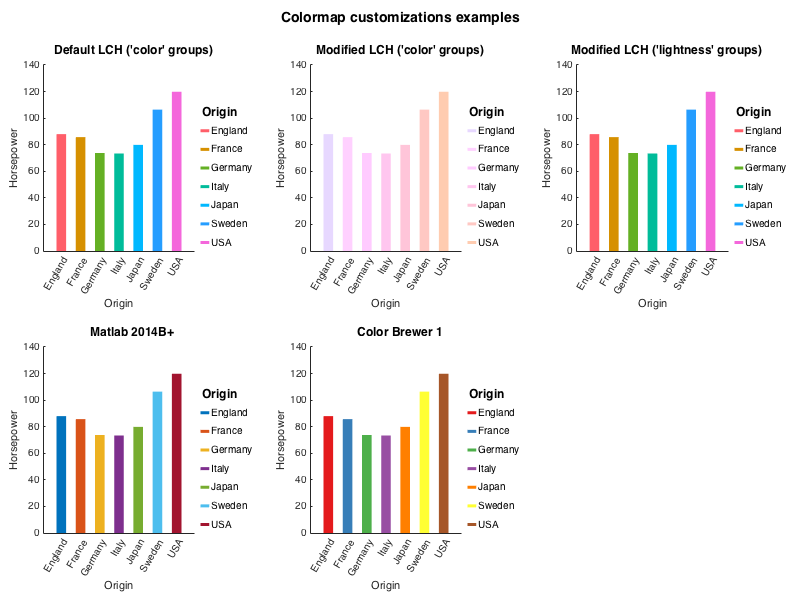
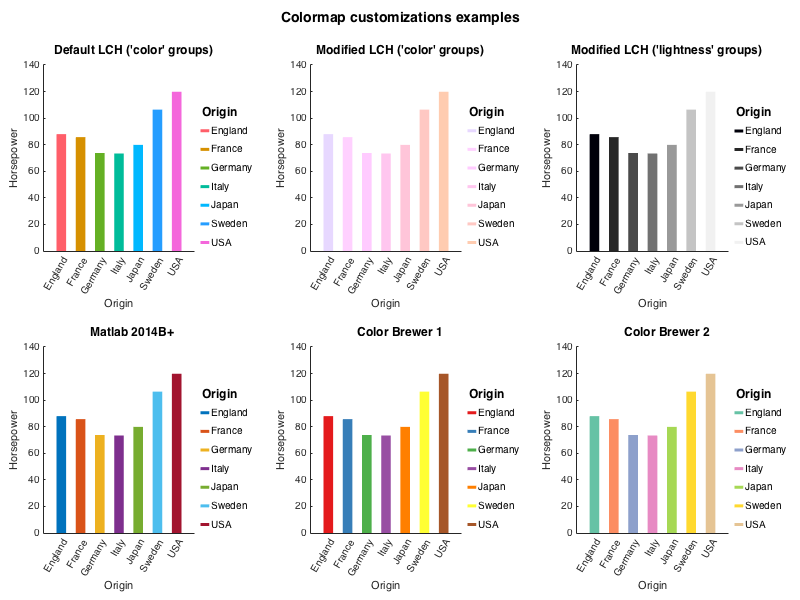
Corrected examples. Added safety check in stat_summary(). Improved update() behavior

diff --git a/html/examples.html b/html/examples.html
@@ -6,7 +6,7 @@
    <!--
 This HTML was auto-generated from MATLAB code.
 To make changes, update the MATLAB code and republish this document.
-      --><title>gramm examples</title><meta name="generator" content="MATLAB 8.5"><link rel="schema.DC" href="http://purl.org/dc/elements/1.1/"><meta name="DC.date" content="2016-05-03"><meta name="DC.source" content="examples.m"><style type="text/css">
+      --><title>gramm examples</title><meta name="generator" content="MATLAB 8.5"><link rel="schema.DC" href="http://purl.org/dc/elements/1.1/"><meta name="DC.date" content="2016-05-10"><meta name="DC.source" content="examples.m"><style type="text/css">
 html,body,div,span,applet,object,iframe,h1,h2,h3,h4,h5,h6,p,blockquote,pre,a,abbr,acronym,address,big,cite,code,del,dfn,em,font,img,ins,kbd,q,s,samp,small,strike,strong,sub,sup,tt,var,b,u,i,center,dl,dt,dd,ol,ul,li,fieldset,form,label,legend,table,caption,tbody,tfoot,thead,tr,th,td{margin:0;padding:0;border:0;outline:0;font-size:100%;vertical-align:baseline;background:transparent}body{line-height:1}ol,ul{list-style:none}blockquote,q{quotes:none}blockquote:before,blockquote:after,q:before,q:after{content:'';content:none}:focus{outine:0}ins{text-decoration:none}del{text-decoration:line-through}table{border-collapse:collapse;border-spacing:0}
 
 html { min-height:100%; margin-bottom:1px; }
@@ -75,7 +75,7 @@ table td { padding:7px 5px; text-align:left; vertical-align:top; border:1px soli
 </pre><p>Set figure title</p><pre class="codeinput">g.set_title(<span class="string">'Fuel economy of new cars between 1970 and 1982'</span>);
 </pre><p>Do the actual drawing</p><pre class="codeinput">figure(<span class="string">'Position'</span>,[100 100 800 400]);
 g.draw();
-</pre><img vspace="5" hspace="5" src="examples_01.png" alt=""> <h2>Grouping options in gramm<a name="9"></a></h2><p>With gramm there are a lot ways to map groups to visual properties of plotted data, or even subplots. Providing grouping variables to change visual properties is done in the constructor call <tt>gramm()</tt>. Grouping variables that determine subplotting are provided by calls to the <tt>facet_grid()</tt> or <tt>facet_wrap()</tt> methods. Not that <b>all the mappings presented below can be combined</b>, i.e. it's possible to previde different variables to each of the options.</p><p>In order to plot multiple, diferent gramm objects in the same figure, an array of gramm objects is created, and the <tt>draw()</tt> function called at the end on the whole array</p><pre class="codeinput">clear <span class="string">g</span>
+</pre><img vspace="5" hspace="5" src="examples_01.png" alt=""> <h2>Grouping options in gramm<a name="9"></a></h2><p>With gramm there are a lot ways to map groups to visual properties of plotted data, or even subplots. Providing grouping variables to change visual properties is done in the constructor call <tt>gramm()</tt>. Grouping variables that determine subplotting are provided by calls to the <tt>facet_grid()</tt> or <tt>facet_wrap()</tt> methods. Note that <b>all the mappings presented below can be combined</b>, i.e. it's possible to previde different variables to each of the options.</p><p>In order to plot multiple, diferent gramm objects in the same figure, an array of gramm objects is created, and the <tt>draw()</tt> function called at the end on the whole array</p><pre class="codeinput">clear <span class="string">g</span>
 g(1,1)=gramm(<span class="string">'x'</span>,cars.Horsepower,<span class="string">'y'</span>,cars.MPG,<span class="string">'subset'</span>,cars.Cylinders~=3 &amp; cars.Cylinders~=5);
 g(1,1).geom_point();
 g(1,1).set_names(<span class="string">'x'</span>,<span class="string">'Horsepower'</span>,<span class="string">'y'</span>,<span class="string">'MPG'</span>);
@@ -563,26 +563,33 @@ figure(<span class="string">'Position'</span>,[100 100 800 1000]);
 g.draw();
 </pre><img vspace="5" hspace="5" src="examples_14.png" alt=""> <h2>Using different groups for different stat_ and geom_ methods by superimposing gramm plots<a name="22"></a></h2><p>By using the method update() after a first draw() call of a gramm object, it is possible to add or remove grouping variables. Here in a first gramm plot we make a glm fit of cars Acceleration as a function of Horsepower, across all countries and number of cylinders, and change the color options so that the fit appears in grey</p><pre class="codeinput">clear <span class="string">g10</span>
 figure(<span class="string">'Position'</span>,[100 100 600 450]);
-g10(1,1)=gramm(<span class="string">'x'</span>,cars.Horsepower,<span class="string">'y'</span>,cars.Acceleration,<span class="string">'subset'</span>,cars.Cylinders~=3 &amp; cars.Cylinders~=5);
-g10(1,1).set_names(<span class="string">'color'</span>,<span class="string">'# Cylinders'</span>,<span class="string">'x'</span>,<span class="string">'Horsepower'</span>,<span class="string">'y'</span>,<span class="string">'Acceleration'</span>,<span class="string">'Column'</span>,<span class="string">'Origin'</span>);
-g10(1,1).set_color_options(<span class="string">'chroma'</span>,0,<span class="string">'lightness'</span>,30);
-g10(1,1).stat_glm(<span class="string">'geom'</span>,<span class="string">'area'</span>,<span class="string">'disp_fit'</span>,false);
-g10.draw();
+g10=gramm(<span class="string">'x'</span>,cars.Horsepower,<span class="string">'y'</span>,cars.Acceleration,<span class="string">'subset'</span>,cars.Cylinders~=3 &amp; cars.Cylinders~=5);
+g10.set_names(<span class="string">'color'</span>,<span class="string">'# Cylinders'</span>,<span class="string">'x'</span>,<span class="string">'Horsepower'</span>,<span class="string">'y'</span>,<span class="string">'Acceleration'</span>,<span class="string">'Column'</span>,<span class="string">'Origin'</span>);
+g10.set_color_options(<span class="string">'chroma'</span>,0,<span class="string">'lightness'</span>,30);
+g10.stat_glm(<span class="string">'geom'</span>,<span class="string">'area'</span>,<span class="string">'disp_fit'</span>,false);
+g10.draw()
 snapnow;
-</pre><img vspace="5" hspace="5" src="examples_15.png" alt=""> <p>After the first draw() call, we call the update() method by specifying a new grouping variable determining colors. We also change the facet_grid() options, which will duplicate the fit made earlier across all new facets. Last, color options are reinitialized to default values</p><pre class="codeinput">g10(1,1).update(<span class="string">'color'</span>,cars.Cylinders);
-g10(1,1).facet_grid([],cars.Origin_Region);
-g10(1,1).set_color_options();
-g10(1,1).geom_point();
+</pre><pre class="codeoutput">
+ans = 
 
+  gramm with properties:
 
+    facet_axes_handles: [1x1 Axes]
+               results: [1x1 struct]
+
+</pre><img vspace="5" hspace="5" src="examples_15.png" alt=""> <p>After the first draw() call (optional), we call the update() method by specifying a new grouping variable determining colors. We also change the facet_grid() options, which will duplicate the fit made earlier across all new facets. Last, color options are reinitialized to default values</p><pre class="codeinput">g10.update(<span class="string">'color'</span>,cars.Cylinders);
+g10.facet_grid([],cars.Origin_Region);
+g10.set_color_options();
+g10.geom_point();
 g10.draw();
 </pre><img vspace="5" hspace="5" src="examples_16.png" alt=""> <h2>Customizing color maps with set_color_options()<a name="24"></a></h2><p>With the method set_color_options(), automatic color generation for color and lightness groups can be tweaked</p><pre class="codeinput"><span class="comment">%Default: LCH-based colormap with hue variation</span>
 clear <span class="string">g</span>
 g(1,1)=gramm(<span class="string">'x'</span>,cars.Origin,<span class="string">'y'</span>,cars.Horsepower,<span class="string">'color'</span>,cars.Origin);
 g(1,2)=copy(g(1));
-g(1,3)=copy(g(1));
+g(1,3)=gramm(<span class="string">'x'</span>,cars.Origin,<span class="string">'y'</span>,cars.Horsepower,<span class="string">'lightness'</span>,cars.Origin);
 g(2,1)=copy(g(1));
 g(2,2)=copy(g(1));
+g(2,3)=copy(g(1));
 
 
 g(1,1).stat_summary(<span class="string">'geom'</span>,{<span class="string">'bar'</span>},<span class="string">'dodge'</span>,0);
@@ -798,7 +805,7 @@ g.draw();
 % Providing grouping variables to change visual properties is done in the
 % constructor call |gramm()|. Grouping variables that determine subplotting
 % are provided by calls to the |facet_grid()| or |facet_wrap()| methods.
-% Not that *all the mappings presented below can be combined*, i.e. it's
+% Note that *all the mappings presented below can be combined*, i.e. it's
 % possible to previde different variables to each of the options.
 %
 % In order to plot multiple, diferent gramm objects in the same figure, an array of gramm objects
@@ -1408,26 +1415,25 @@ g.draw();
 
 clear g10
 figure('Position',[100 100 600 450]);
-g10(1,1)=gramm('x',cars.Horsepower,'y',cars.Acceleration,'subset',cars.Cylinders~=3 & cars.Cylinders~=5);
-g10(1,1).set_names('color','# Cylinders','x','Horsepower','y','Acceleration','Column','Origin');
-g10(1,1).set_color_options('chroma',0,'lightness',30);
-g10(1,1).stat_glm('geom','area','disp_fit',false);
-g10.draw();
+g10=gramm('x',cars.Horsepower,'y',cars.Acceleration,'subset',cars.Cylinders~=3 & cars.Cylinders~=5);
+g10.set_names('color','# Cylinders','x','Horsepower','y','Acceleration','Column','Origin');
+g10.set_color_options('chroma',0,'lightness',30);
+g10.stat_glm('geom','area','disp_fit',false);
+g10.draw()
 snapnow;
 
 %%
-% After the first draw() call, we call the update() method by specifying a
+% After the first draw() call (optional), we call the update() method by specifying a
 % new grouping variable determining colors. We also change the facet_grid()
 % options, which will duplicate the fit made earlier across all new facets.
 % Last, color options are reinitialized to default values
 
-g10(1,1).update('color',cars.Cylinders);
-g10(1,1).facet_grid([],cars.Origin_Region);
-g10(1,1).set_color_options();
-g10(1,1).geom_point();
-
-
+g10.update('color',cars.Cylinders);
+g10.facet_grid([],cars.Origin_Region);
+g10.set_color_options();
+g10.geom_point();
 g10.draw();
+
 
 %% Customizing color maps with set_color_options()
 % With the method set_color_options(), automatic color generation for
@@ -1437,9 +1443,10 @@ g10.draw();
 clear g
 g(1,1)=gramm('x',cars.Origin,'y',cars.Horsepower,'color',cars.Origin);
 g(1,2)=copy(g(1));
-g(1,3)=copy(g(1));
+g(1,3)=gramm('x',cars.Origin,'y',cars.Horsepower,'lightness',cars.Origin);
 g(2,1)=copy(g(1));
 g(2,2)=copy(g(1));
+g(2,3)=copy(g(1));
 
 
 g(1,1).stat_summary('geom',{'bar'},'dodge',0);

diff --git a/@gramm/stat_summary.m b/@gramm/stat_summary.m
@@ -147,6 +147,11 @@ if iscell(draw_data.x) || iscell(draw_data.y) %If input was provided as cell/mat
         x=padded_cell2mat(draw_data.x);
         y=padded_cell2mat(draw_data.y);
         uni_x=nanmean(x);
+        %Add a check for X alignment
+        x_diff=max(x)-min(x);
+        if any(x_diff(1:end-1)>diff(uni_x)/10) %More than a tenth of delta x variation
+            warning(['some repeated X values are misaligned (max ' num2str(max(x_diff)) '), use ''interp_in'' in stat_summary() or live with the consequences'])
+        end
     end
     
     if params.bin_in>0

diff --git a/@gramm/update.m b/@gramm/update.m
@@ -17,8 +17,8 @@ end
 new_aes=parse_aes(varargin{:});
 
 %Do we have new x values?
-if ~isempty(new_aes.x) && numel(new_aes.x)~=numel(obj.aes.x)
-    disp('New X of different size given, all data from first gramm cleared')
+if (~isempty(new_aes.x) && numel(new_aes.x)~=numel(obj.aes.x)) || (~isempty(new_aes.y) && numel(new_aes.y)~=numel(obj.aes.y))
+    disp('New X or Y of different size given, all data from first gramm cleared')
     %if so we clear everything
     obj.row_facet=[];
     obj.col_facet=[];

diff --git a/examples.m b/examples.m
@@ -679,9 +679,10 @@ g10.draw();
 clear g
 g(1,1)=gramm('x',cars.Origin,'y',cars.Horsepower,'color',cars.Origin);
 g(1,2)=copy(g(1));
-g(1,3)=copy(g(1));
+g(1,3)=gramm('x',cars.Origin,'y',cars.Horsepower,'lightness',cars.Origin);
 g(2,1)=copy(g(1));
 g(2,2)=copy(g(1));
+g(2,3)=copy(g(1));
 
 
 g(1,1).stat_summary('geom',{'bar'},'dodge',0);
